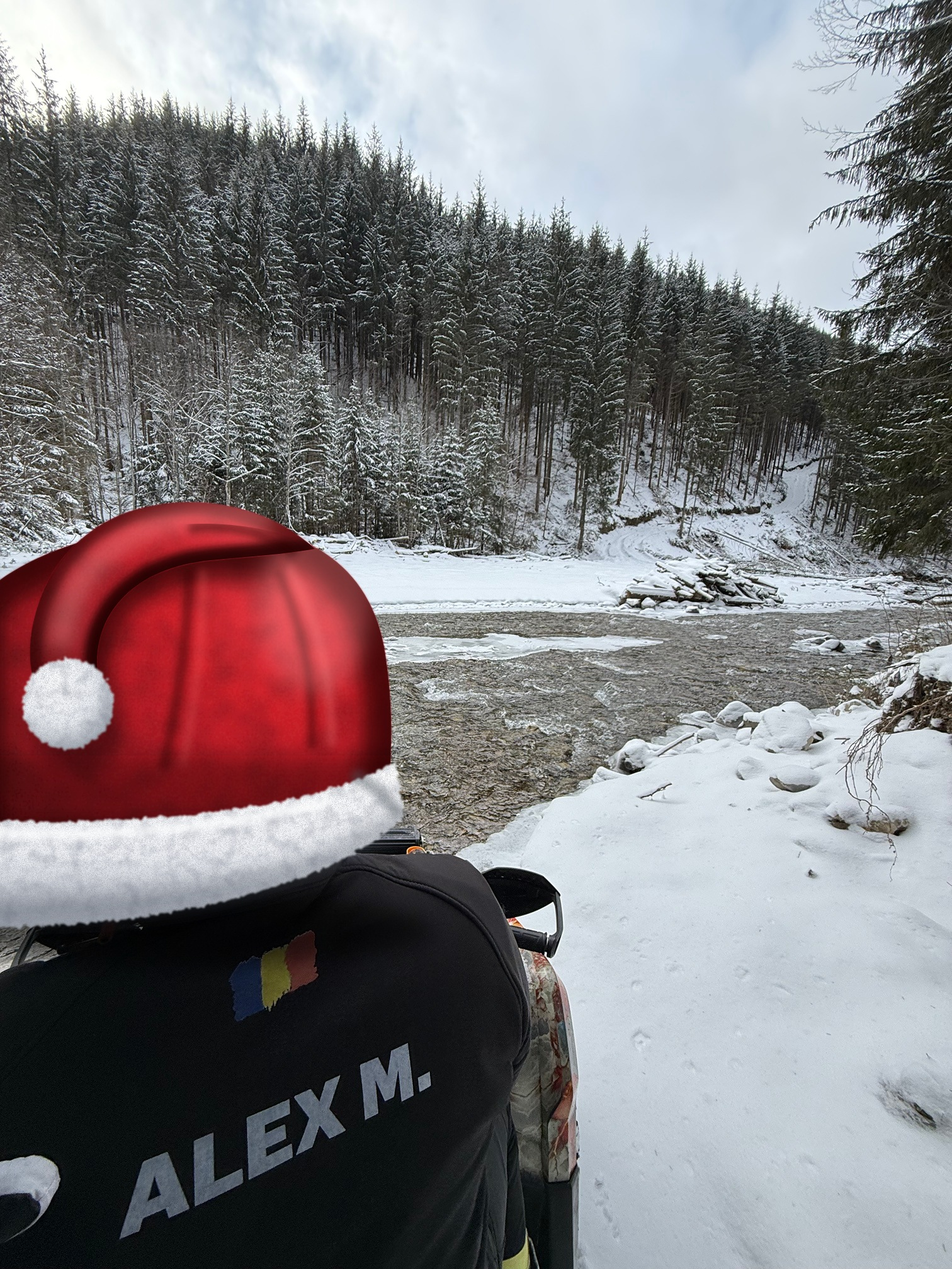
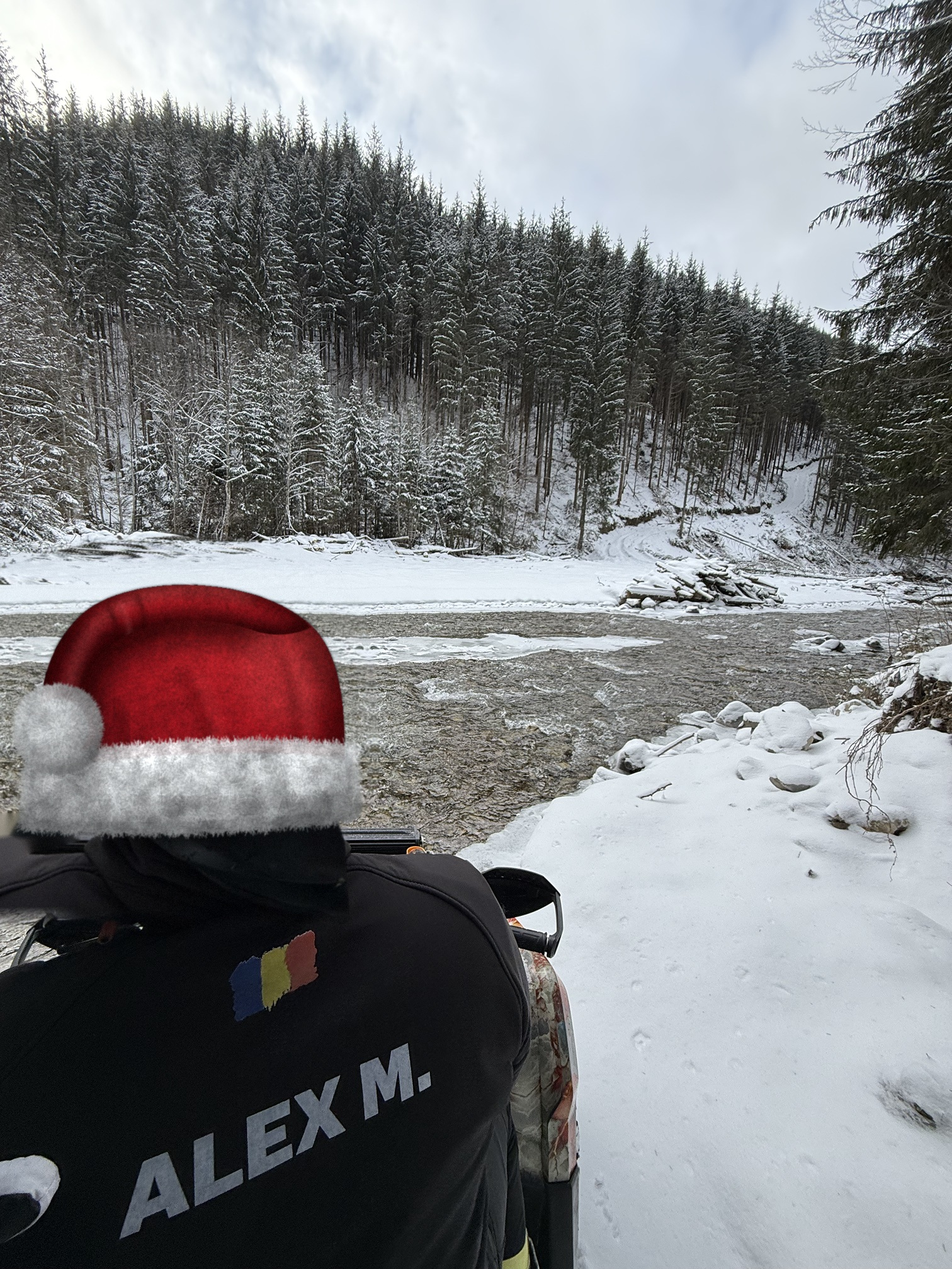
Giveaway: photoreal Santa hat at head size (background rebuilt, real hood mirrored), CTA now Follow/Like/Tag/Share
Claude-Session: https://claude.ai/code/session_01BikhFmAj6zsRsX4kAHmHp9

Changed region(s): [[0.0, 0.375, 0.4352, 0.7812]]

diff --git a/social/giveaway-craciun/assets/hat2.html b/social/giveaway-craciun/assets/hat2.html
@@ -1,0 +1,49 @@
+<!doctype html><html><head><meta charset="utf-8"><style>
+html,body{margin:0;width:1512px;height:2016px;overflow:hidden;background:transparent}
+svg{position:absolute;left:0;top:0;width:1512px;height:2016px}
+</style></head><body>
+<!-- Red fleece parts only (dome + drooping tail). Fur, grain and grading are added in compose.py -->
+<svg viewBox="0 0 1512 2016">
+<defs>
+  <path id="dome" d="M58 1250 C50 1130 105 1000 235 958 C320 930 430 938 492 992 C540 1036 552 1120 546 1250 Z"/>
+  <path id="tail" d="M494 996 C420 916 205 906 128 978 C84 1020 62 1080 64 1150 L126 1150 C124 1100 138 1058 172 1028 C232 978 336 976 410 1004 C442 1012 472 1008 494 996 Z"/>
+  <!-- overcast light: soft, from the sky above / slightly right -->
+  <radialGradient id="red" gradientUnits="userSpaceOnUse" cx="400" cy="960" r="430">
+    <stop offset="0" stop-color="#B8262C"/><stop offset=".45" stop-color="#97161E"/>
+    <stop offset=".85" stop-color="#600B12"/><stop offset="1" stop-color="#43070C"/>
+  </radialGradient>
+  <linearGradient id="redTail" gradientUnits="userSpaceOnUse" x1="300" y1="915" x2="300" y2="1010">
+    <stop offset="0" stop-color="#B42429"/><stop offset=".55" stop-color="#8C141B"/><stop offset="1" stop-color="#4A070C"/>
+  </linearGradient>
+  <filter id="s8" x="-50%" y="-50%" width="200%" height="200%"><feGaussianBlur stdDeviation="8"/></filter>
+  <filter id="s18" x="-50%" y="-50%" width="200%" height="200%"><feGaussianBlur stdDeviation="18"/></filter>
+  <filter id="s3" x="-50%" y="-50%" width="200%" height="200%"><feGaussianBlur stdDeviation="3"/></filter>
+  <clipPath id="cD"><use href="#dome"/></clipPath>
+  <clipPath id="cT"><use href="#tail"/></clipPath>
+</defs>
+<use href="#dome" fill="url(#red)"/>
+<g clip-path="url(#cD)">
+  <use href="#dome" fill="none" stroke="rgba(25,0,3,.65)" stroke-width="70" filter="url(#s18)"/>
+  <!-- shadow of the tail lying on the crown -->
+  <path d="M420 1010 C340 985 230 985 170 1040 C140 1070 130 1110 132 1160" stroke="rgba(20,0,2,.75)" stroke-width="44" fill="none" filter="url(#s18)"/>
+  <!-- soft pull-folds from the brim up into the crown -->
+  <path d="M470 1240 C480 1170 470 1090 440 1030" stroke="rgba(30,0,4,.45)" stroke-width="16" fill="none" filter="url(#s8)"/>
+  <path d="M488 1238 C498 1170 490 1095 462 1036" stroke="rgba(220,90,90,.22)" stroke-width="12" fill="none" filter="url(#s8)"/>
+  <path d="M330 1245 C335 1180 320 1120 290 1070" stroke="rgba(30,0,4,.38)" stroke-width="14" fill="none" filter="url(#s8)"/>
+  <path d="M350 1245 C355 1180 342 1120 314 1072" stroke="rgba(220,90,90,.18)" stroke-width="10" fill="none" filter="url(#s8)"/>
+  <path d="M200 1248 C200 1200 196 1160 186 1120" stroke="rgba(30,0,4,.35)" stroke-width="14" fill="none" filter="url(#s8)"/>
+  <!-- crumple just above the brim -->
+  <path d="M70 1225 C150 1210 260 1222 340 1212 C420 1202 500 1215 545 1205" stroke="rgba(30,0,4,.4)" stroke-width="18" fill="none" filter="url(#s8)"/>
+  <ellipse cx="455" cy="1060" rx="70" ry="90" fill="rgba(210,80,80,.22)" filter="url(#s18)"/>
+</g>
+<use href="#tail" fill="url(#redTail)"/>
+<g clip-path="url(#cT)">
+  <use href="#tail" fill="none" stroke="rgba(25,0,3,.55)" stroke-width="26" filter="url(#s8)"/>
+  <path d="M400 950 C320 925 220 930 160 985 C130 1015 112 1060 108 1110" stroke="rgba(215,95,95,.3)" stroke-width="18" fill="none" filter="url(#s8)"/>
+  <!-- wrinkles where the tip bends -->
+  <path d="M170 960 C185 985 190 1010 182 1035" stroke="rgba(30,0,4,.5)" stroke-width="8" fill="none" filter="url(#s3)"/>
+  <path d="M215 940 C228 965 232 990 226 1010" stroke="rgba(30,0,4,.45)" stroke-width="7" fill="none" filter="url(#s3)"/>
+  <path d="M190 958 C205 982 210 1006 202 1030" stroke="rgba(220,110,110,.25)" stroke-width="6" fill="none" filter="url(#s3)"/>
+</g>
+</svg>
+</body></html>

diff --git a/social/giveaway-craciun/giveaway.html b/social/giveaway-craciun/giveaway.html
@@ -104,7 +104,7 @@
   .story .steps { font-size: 26px; gap: 28px; }
   .steps span { display: flex; align-items: center; gap: 8px; white-space: nowrap; }
   .steps svg { width: 22px; height: 22px; } .story .steps svg { width: 28px; height: 28px; }
-  .site { height: 48px; padding: 0 20px; border-radius: 24px; display: flex; align-items: center; font: 800 19px 'Montserrat';
+  .site { gap: 9px; height: 48px; padding: 0 20px; border-radius: 24px; display: flex; align-items: center; font: 800 19px 'Montserrat';
     background: linear-gradient(160deg, #FF9A55, #FF6600 55%, #D85600); color: #0A0A0A; box-shadow: inset 0 1px 0 rgba(255,255,255,.55), 0 6px 18px rgba(255,102,0,.45); }
   .story .site { height: 64px; border-radius: 32px; font-size: 24px; padding: 0 28px; }
   .foot { position: absolute; left: 0; right: 0; bottom: 70px; text-align: center; font: 600 22px 'Inter'; opacity: .9; text-shadow: 0 2px 10px rgba(0,0,0,.6); }
@@ -196,9 +196,9 @@
   <div class="steps">
     <span><svg viewBox="0 0 24 24" fill="none" stroke="#fff" stroke-width="2.4" stroke-linecap="round" stroke-linejoin="round"><circle cx="9" cy="8" r="4"/><path d="M2 21c0-3.9 3.1-7 7-7s7 3.1 7 7"/><path d="M19 8v6M16 11h6"/></svg>Follow</span>
     <span><svg viewBox="0 0 24 24" fill="#fff"><path d="M12 21s-7.5-4.6-9.5-9.3C1 8 3.3 4.5 6.9 4.5c2 0 3.6 1.1 5.1 3 1.5-1.9 3.1-3 5.1-3 3.6 0 5.9 3.5 4.4 7.2C19.5 16.4 12 21 12 21z"/></svg>Like</span>
-    <span><svg viewBox="0 0 24 24" fill="none" stroke="#fff" stroke-width="2.4" stroke-linecap="round"><circle cx="12" cy="12" r="4"/><path d="M16 8v5a3 3 0 0 0 6 0v-1a10 10 0 1 0-4 8"/></svg>Tag 2</span>
+    <span><svg viewBox="0 0 24 24" fill="none" stroke="#fff" stroke-width="2.4" stroke-linecap="round"><circle cx="12" cy="12" r="4"/><path d="M16 8v5a3 3 0 0 0 6 0v-1a10 10 0 1 0-4 8"/></svg>Tag</span>
   </div>
-  <div class="site">mindricel.ro</div>
+  <div class="site"><svg viewBox="0 0 24 24" width="22" height="22" fill="none" stroke="#0A0A0A" stroke-width="2.4" stroke-linejoin="round"><path d="M22 3 2 10.5l8 3 3 8z"/><path d="M22 3 10 13.5"/></svg>Share</div>
 </div>
 <div class="foot">Detalii și regulament în descrierea postării</div>
 

diff --git a/social/giveaway-craciun/assets/red.js b/social/giveaway-craciun/assets/red.js
@@ -1,0 +1,5 @@
+const { chromium } = require('playwright');
+(async () => { const d = process.argv[2]; const b = await chromium.launch();
+  const p = await b.newPage({ viewport: { width: 1512, height: 2016 } });
+  await p.goto(`file://${d}/hat2.html`); await p.waitForTimeout(200);
+  await p.screenshot({ path: `${d}/red.png`, omitBackground: true }); await b.close(); })();

diff --git a/social/giveaway-craciun/assets/compose.py b/social/giveaway-craciun/assets/compose.py
@@ -1,0 +1,134 @@
+import cv2, numpy as np, sys
+rng = np.random.default_rng(7)
+D = sys.argv[1]
+im = cv2.imread(f'{D}/hero.jpg').astype(np.float32)
+H, W = im.shape[:2]
+
+def poly_mask(pts, dil=0):
+    m = np.zeros((H, W), np.uint8); cv2.fillPoly(m, [np.array(pts, np.int32)], 255)
+    if dil: m = cv2.dilate(m, cv2.getStructuringElement(cv2.MORPH_ELLIPSE, (2*dil+1, 2*dil+1)))
+    return m > 0
+
+def bez(p0, p1, p2, p3, n=40):
+    t = np.linspace(0, 1, n)[:, None]
+    return ((1-t)**3*np.array(p0) + 3*(1-t)**2*t*np.array(p1) + 3*(1-t)*t**2*np.array(p2) + t**3*np.array(p3)).tolist()
+
+# --- helmet (traced by hand) ---
+helmet = poly_mask([[0,912],[60,890],[150,867],[280,858],[420,872],[500,902],[545,935],[565,985],[580,1060],[586,1150],[588,1232],[574,1272],[548,1292],[528,1300],[540,1340],[548,1462],[0,1462]], dil=7)
+
+# --- hat geometry (same coords as hat2.html) ---
+brim_top = bez([48,1222],[200,1188],[400,1182],[556,1196])
+brim_bot = bez([560,1292],[400,1312],[200,1322],[44,1306])
+brim = poly_mask(brim_top + brim_bot)
+red = cv2.imread(f'{D}/red.png', cv2.IMREAD_UNCHANGED).astype(np.float32)
+red_a = red[..., 3:] / 255.0
+pom_c, pom_r = (92, 1158), 58
+pom = np.zeros((H, W), np.uint8); cv2.circle(pom, pom_c, pom_r, 255, -1); pom = pom > 0
+hat = (red_a[..., 0] > 0.02) | brim | pom
+
+# below the brim: real hood/neck exists on the right (x>345); mirror it to the left -> neck + left shoulder
+yy, xx = np.mgrid[0:H, 0:W]
+bot = np.interp(xx, [p[0] for p in brim_bot[::-1]], [p[1] for p in brim_bot[::-1]])
+below = helmet & ~hat & (yy > bot - 25)
+shoulder = poly_mask([[120,1280],[560,1280],[560,1470],[0,1470],[0,1372],[60,1352],[128,1336]])
+hood = below & shoulder
+gap = helmet & ~hat & ~hood                 # background to rebuild
+out = im.copy()
+
+# hood/neck: mirror about x=345 (continuous with the real hood), darken a bit, soft shadow under the brim
+MX = 690
+src_x = np.clip(MX - xx, 0, W - 1)
+mir = im[yy, src_x]
+mir = cv2.GaussianBlur(mir, (0, 0), 1.0)
+out[hood] = mir[hood] * 0.92
+sh = np.zeros((H, W), np.float32); cv2.fillPoly(sh, [np.array(brim_bot + [[560,1335],[44,1350]], np.int32)], 1.0)
+sh = cv2.GaussianBlur(sh, (0, 0), 12)[..., None]
+out = np.where(hood[..., None], out * (1 - 0.55 * sh), out)
+
+# background: per row, mirror about the helmet's right edge (continuous seam) for the band above/right of the hat;
+# left strip (left of the hat) copies the river right of the helmet
+R = np.array([(np.where(helmet[y])[0].max() if helmet[y].any() else 0) for y in range(H)])
+for y in range(H):
+    xs = np.where(gap[y])[0]
+    if not len(xs): continue
+    for sgm in np.split(xs, np.where(np.diff(xs) > 1)[0] + 1):
+        if sgm[-1] >= R[y] - 2 or sgm[0] > 200:      # touches right edge, or above the hat
+            src = 2 * (R[y] + 1) - sgm
+        else:                                        # left strip
+            src = sgm + R[y] + 14
+        out[y, sgm] = im[y, np.clip(src, 0, W - 1)]
+# small leftovers below the brim on the far left (rack bar would be copied there): inpaint
+left_low = gap & (yy > 1290)
+if left_low.any():
+    out8 = np.clip(out, 0, 255).astype(np.uint8)
+    out = cv2.inpaint(out8, left_low.astype(np.uint8) * 255, 9, cv2.INPAINT_TELEA).astype(np.float32)
+# feather the rebuilt area into the original
+fm = cv2.GaussianBlur((gap | hood).astype(np.float32), (0, 0), 2.0)
+bandb = np.clip((yy - 1440) / 30.0, 0, 1) * (xx < 560)
+fm = (fm * (1 - bandb))[..., None]
+out = im * (1 - fm) + out * fm
+
+# --- red fleece ---
+rgb = red[..., :3]
+# fleece micro-texture
+n1 = cv2.GaussianBlur(rng.normal(0, 1, (H, W)).astype(np.float32), (0, 0), 1.0)
+n2 = cv2.GaussianBlur(rng.normal(0, 1, (H, W)).astype(np.float32), (0, 0), 6.0)
+tex = 1 + 0.06 * n1 / n1.std() + 0.035 * n2 / n2.std()
+rgb = rgb * tex[..., None]
+out = out * (1 - red_a) + rgb * red_a
+
+# --- fur (brim + pompom): thousands of short strands ---
+snow = np.array([238, 236, 232], np.float32)  # BGR, close to the photo's lit snow
+def fur(mask, shade, n, lmin, lmax, radial=None, spill=7):
+    layer = np.zeros((H, W, 3), np.float32); alpha = np.zeros((H, W), np.float32)
+    base = cv2.erode(mask.astype(np.uint8), np.ones((9, 9), np.uint8)) > 0
+    sm = shade[..., None] * snow
+    pts = np.argwhere(cv2.dilate(mask.astype(np.uint8), np.ones((2*spill+1,)*2, np.uint8)) > 0)
+    pick = pts[rng.integers(0, len(pts), n)]
+    for (y, x) in pick:
+        if radial is not None:
+            ang = np.arctan2(y - radial[1], x - radial[0]) + rng.normal(0, 0.6)
+        else:
+            ang = rng.uniform(0, 2*np.pi)
+        L = rng.uniform(lmin, lmax)
+        x2, y2 = int(x + L*np.cos(ang)), int(y + L*np.sin(ang))
+        yc, xc = min(max(y, 0), H-1), min(max(x, 0), W-1)
+        v = sm[yc, xc] * rng.uniform(0.72, 1.06)
+        cv2.line(layer, (x, y), (x2, y2), tuple(float(c) for c in v), 1, cv2.LINE_AA)
+        cv2.line(alpha[..., None] if False else alpha, (x, y), (x2, y2), 1.0, 1, cv2.LINE_AA)
+    # dense underlayer
+    bl = cv2.GaussianBlur(base.astype(np.float32), (0, 0), 2.5)
+    under = sm * (0.9 + 0.1 * n1[..., None])
+    a = np.clip(alpha, 0, 1)
+    col = np.where(a[..., None] > 0, layer / np.maximum(a[..., None], 1e-3), under)
+    A = np.clip(np.maximum(bl, a * 0.9), 0, 1)
+    col = cv2.GaussianBlur(col, (0, 0), 0.6)
+    return col, cv2.GaussianBlur(A, (0, 0), 0.7)
+
+# brim shading: lit from above, darker underside and toward the edges, lumpy
+top = np.interp(xx, [p[0] for p in brim_top], [p[1] for p in brim_top])
+t = np.clip((yy - top) / np.maximum(bot - top, 1), 0, 1)
+lump = cv2.GaussianBlur(rng.normal(0, 1, (H, W)).astype(np.float32), (0, 0), 9); lump /= lump.std()
+side = 1 - 0.25 * np.clip((180 - xx) / 180, 0, 1) - 0.12 * np.clip((xx - 470) / 90, 0, 1)
+lump2 = cv2.GaussianBlur(rng.normal(0, 1, (H, W)).astype(np.float32), (0, 0), 4); lump2 /= lump2.std()
+shade_b = (1.02 - 0.42 * t**1.5) * side * (1 + 0.10 * lump + 0.06 * lump2)
+col, A = fur(brim, shade_b.astype(np.float32), 70000, 5, 15)
+out = out * (1 - A[..., None]) + col * A[..., None]
+
+# pompom: soft shadow on the hat, radial strands
+ps = np.zeros((H, W), np.float32); cv2.circle(ps, (pom_c[0] + 14, pom_c[1] + 20), pom_r, 1.0, -1)
+ps = cv2.GaussianBlur(ps, (0, 0), 16)
+out = out * (1 - 0.45 * ps[..., None] * (hat & ~pom)[..., None])
+d = np.sqrt((xx - pom_c[0] + 18)**2 + (yy - pom_c[1] + 22)**2) / (pom_r * 1.7)
+shade_p = np.clip(1.02 - 0.55 * d**1.5, 0.35, 1) * (1 + 0.06 * lump)
+col, A = fur(pom, shade_p.astype(np.float32), 16000, 4, 11, radial=pom_c, spill=6)
+out = out * (1 - A[..., None]) + col * A[..., None]
+
+# --- match the phone camera: slight softness + its grain, on everything we touched ---
+touched = cv2.dilate((helmet | hat).astype(np.uint8), np.ones((15, 15), np.uint8)) > 0
+soft = cv2.GaussianBlur(out, (0, 0), 0.7)
+grain = rng.normal(0, 3.2, (H, W, 1)).astype(np.float32) + rng.normal(0, 1.2, (H, W, 3)).astype(np.float32)
+res = im.copy()
+res[touched] = np.clip(soft + grain, 0, 255)[touched]
+cv2.imwrite(f'{D}/hero-santa.jpg', res.astype(np.uint8), [cv2.IMWRITE_JPEG_QUALITY, 94])
+cv2.imwrite(f'{D}/hatcrop.jpg', res[700:1600, 0:1000].astype(np.uint8))
